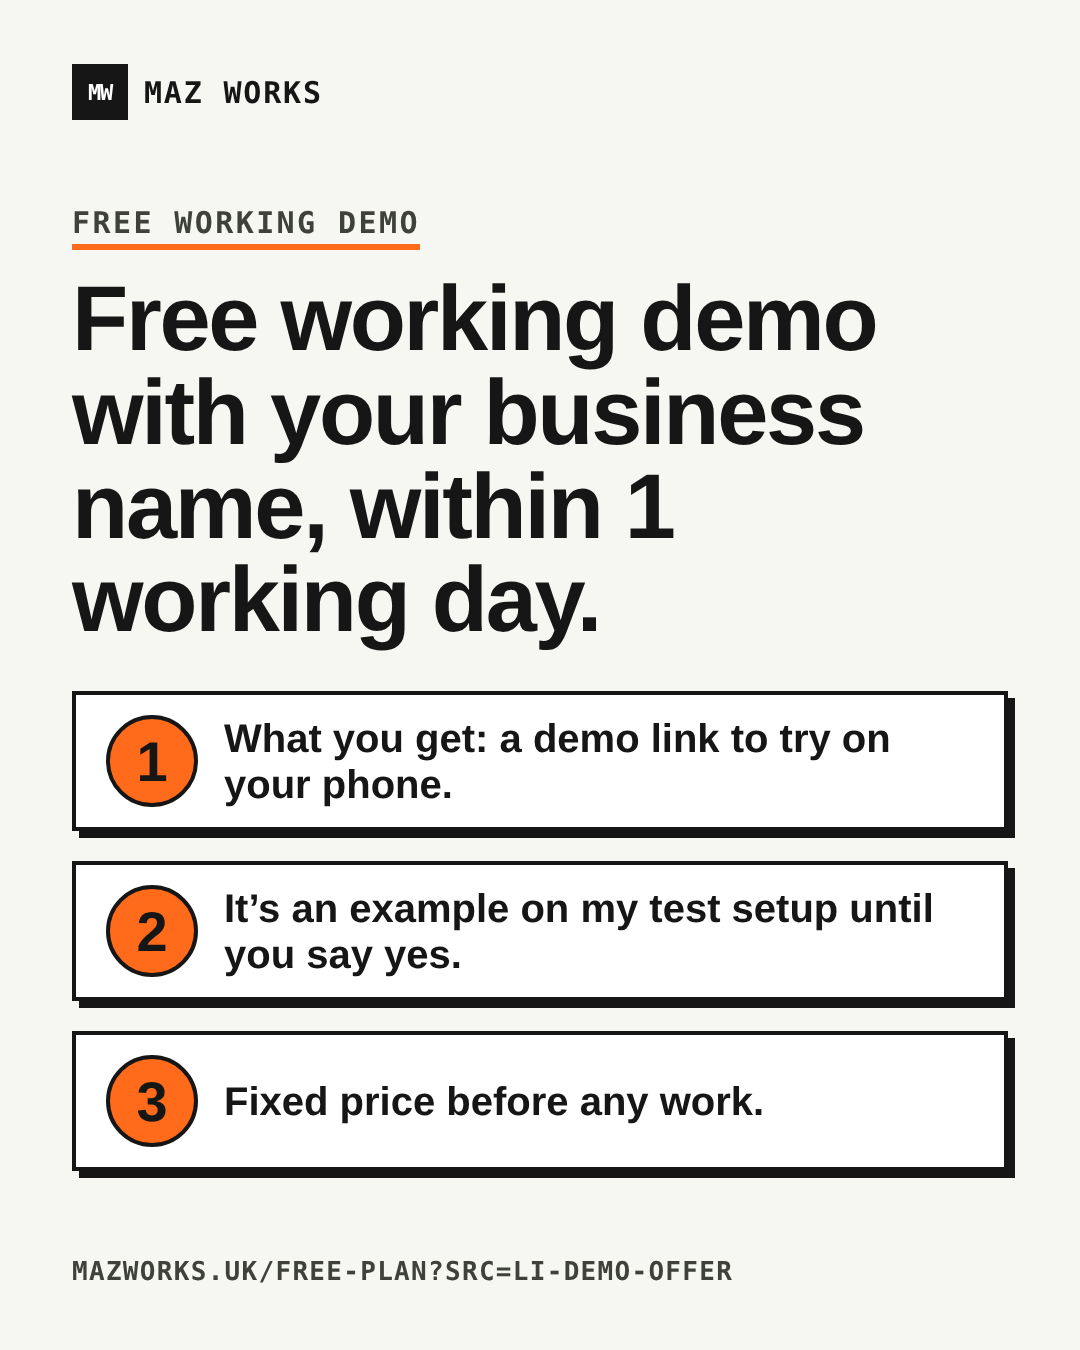
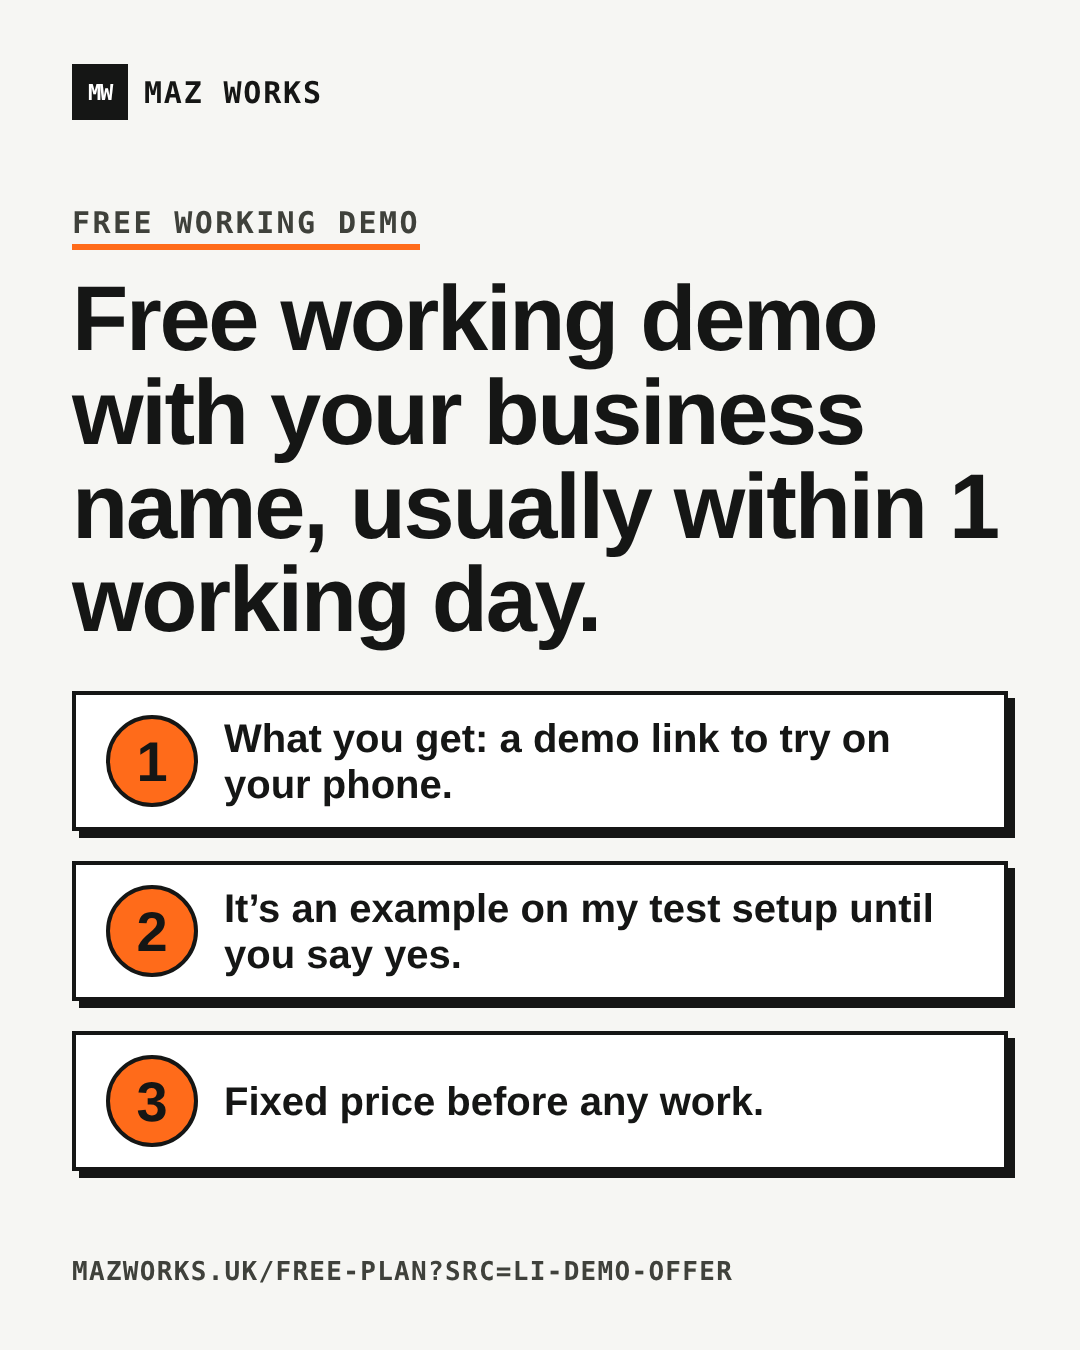
Promo: 'usually within 1 working day' (Maz: don't over-promise); free-demo headline resized
Claude-Session: https://claude.ai/code/session_01BkenHuGPMULrXmysoiMS8D

Changed region(s): [[0.3361, 0.3422, 0.8556, 0.4356], [0.8861, 0.3422, 0.9167, 0.4044]]

diff --git a/assets/promo/source/free-demo-tall.html b/assets/promo/source/free-demo-tall.html
@@ -30,4 +30,4 @@ p.lead{font-size:46px;line-height:1.25;font-weight:600;margin-top:36px}
 .foot{font-family:var(--mono);font-weight:800;font-size:28px;letter-spacing:.05em;text-transform:uppercase;color:var(--muted);display:flex;justify-content:space-between;gap:20px}
 .btn{display:inline-block;background:var(--signal);border:4px solid var(--ink);box-shadow:10px 10px 0 var(--ink);padding:34px 48px;font-size:76px;font-weight:900;letter-spacing:-.01em}
 .url{font-family:var(--mono);font-weight:800;font-size:38px;margin-top:48px;word-break:break-all;line-height:1.3}
-</style></head><body><div class="s" style="padding:64px 72px"><div class="top"><div class="brand"><div class="mark">MW</div><span>Maz Works</span></div></div><div class="body" style="justify-content:center"><div class="eyebrow tag" style="width:fit-content;margin-bottom:22px">Free working demo</div><h1 style="font-size:92px">Free working demo with your business name, within 1 working day.</h1><div class="stack" style="gap:30px;margin-top:44px"><div class="step sky" style="padding:20px 30px;gap:26px;box-shadow:7px 7px 0 var(--ink)"><b class="num">1</b><span style="font-size:40px">What you get: a demo link to try on your phone.</span></div><div class="step lilac" style="padding:20px 30px;gap:26px;box-shadow:7px 7px 0 var(--ink)"><b class="num">2</b><span style="font-size:40px">It’s an example on my test setup until you say yes.</span></div><div class="step mint" style="padding:20px 30px;gap:26px;box-shadow:7px 7px 0 var(--ink)"><b class="num">3</b><span style="font-size:40px">Fixed price before any work.</span></div></div></div><div class="foot" style="font-size:26px"><span>mazworks.uk/free-plan?src=li-demo-offer</span></div></div></body></html>
+</style></head><body><div class="s" style="padding:64px 72px"><div class="top"><div class="brand"><div class="mark">MW</div><span>Maz Works</span></div></div><div class="body" style="justify-content:center"><div class="eyebrow tag" style="width:fit-content;margin-bottom:22px">Free working demo</div><h1 style="font-size:92px">Free working demo with your business name, usually within 1 working day.</h1><div class="stack" style="gap:30px;margin-top:44px"><div class="step sky" style="padding:20px 30px;gap:26px;box-shadow:7px 7px 0 var(--ink)"><b class="num">1</b><span style="font-size:40px">What you get: a demo link to try on your phone.</span></div><div class="step lilac" style="padding:20px 30px;gap:26px;box-shadow:7px 7px 0 var(--ink)"><b class="num">2</b><span style="font-size:40px">It’s an example on my test setup until you say yes.</span></div><div class="step mint" style="padding:20px 30px;gap:26px;box-shadow:7px 7px 0 var(--ink)"><b class="num">3</b><span style="font-size:40px">Fixed price before any work.</span></div></div></div><div class="foot" style="font-size:26px"><span>mazworks.uk/free-plan?src=li-demo-offer</span></div></div></body></html>

diff --git a/assets/promo/source/free-demo.html b/assets/promo/source/free-demo.html
@@ -30,4 +30,4 @@ p.lead{font-size:46px;line-height:1.25;font-weight:600;margin-top:36px}
 .foot{font-family:var(--mono);font-weight:800;font-size:28px;letter-spacing:.05em;text-transform:uppercase;color:var(--muted);display:flex;justify-content:space-between;gap:20px}
 .btn{display:inline-block;background:var(--signal);border:4px solid var(--ink);box-shadow:10px 10px 0 var(--ink);padding:34px 48px;font-size:76px;font-weight:900;letter-spacing:-.01em}
 .url{font-family:var(--mono);font-weight:800;font-size:38px;margin-top:48px;word-break:break-all;line-height:1.3}
-</style></head><body><div class="s" style="padding:52px 64px"><div class="top"><div class="brand"><div class="mark">MW</div><span>Maz Works</span></div></div><div class="body" style="justify-content:center"><div class="eyebrow tag" style="width:fit-content;margin-bottom:22px">Free working demo</div><h1 style="font-size:80px">Free working demo with your business name, within 1 working day.</h1><div class="stack" style="gap:20px;margin-top:30px"><div class="step sky" style="padding:20px 30px;gap:26px;box-shadow:7px 7px 0 var(--ink)"><b class="num">1</b><span style="font-size:40px">What you get: a demo link to try on your phone.</span></div><div class="step lilac" style="padding:20px 30px;gap:26px;box-shadow:7px 7px 0 var(--ink)"><b class="num">2</b><span style="font-size:40px">It’s an example on my test setup until you say yes.</span></div><div class="step mint" style="padding:20px 30px;gap:26px;box-shadow:7px 7px 0 var(--ink)"><b class="num">3</b><span style="font-size:40px">Fixed price before any work.</span></div></div></div><div class="foot" style="font-size:26px"><span>mazworks.uk/free-plan?src=li-demo-offer</span></div></div></body></html>
+</style></head><body><div class="s" style="padding:52px 64px"><div class="top"><div class="brand"><div class="mark">MW</div><span>Maz Works</span></div></div><div class="body" style="justify-content:center"><div class="eyebrow tag" style="width:fit-content;margin-bottom:22px">Free working demo</div><h1 style="font-size:68px">Free working demo with your business name, usually within 1 working day.</h1><div class="stack" style="gap:20px;margin-top:30px"><div class="step sky" style="padding:20px 30px;gap:26px;box-shadow:7px 7px 0 var(--ink)"><b class="num">1</b><span style="font-size:40px">What you get: a demo link to try on your phone.</span></div><div class="step lilac" style="padding:20px 30px;gap:26px;box-shadow:7px 7px 0 var(--ink)"><b class="num">2</b><span style="font-size:40px">It’s an example on my test setup until you say yes.</span></div><div class="step mint" style="padding:20px 30px;gap:26px;box-shadow:7px 7px 0 var(--ink)"><b class="num">3</b><span style="font-size:40px">Fixed price before any work.</span></div></div></div><div class="foot" style="font-size:26px"><span>mazworks.uk/free-plan?src=li-demo-offer</span></div></div></body></html>

diff --git a/assets/promo/posts/POSTS.md b/assets/promo/posts/POSTS.md
@@ -125,7 +125,7 @@ Post:
 Want to see it working before you decide?
 
 I'll send a working demo with your business name on it.
-It's free, within 1 working day.
+It's free, usually within 1 working day.
 
 It's an example on my test setup until you say yes.
 You get a fixed price before any work starts.
